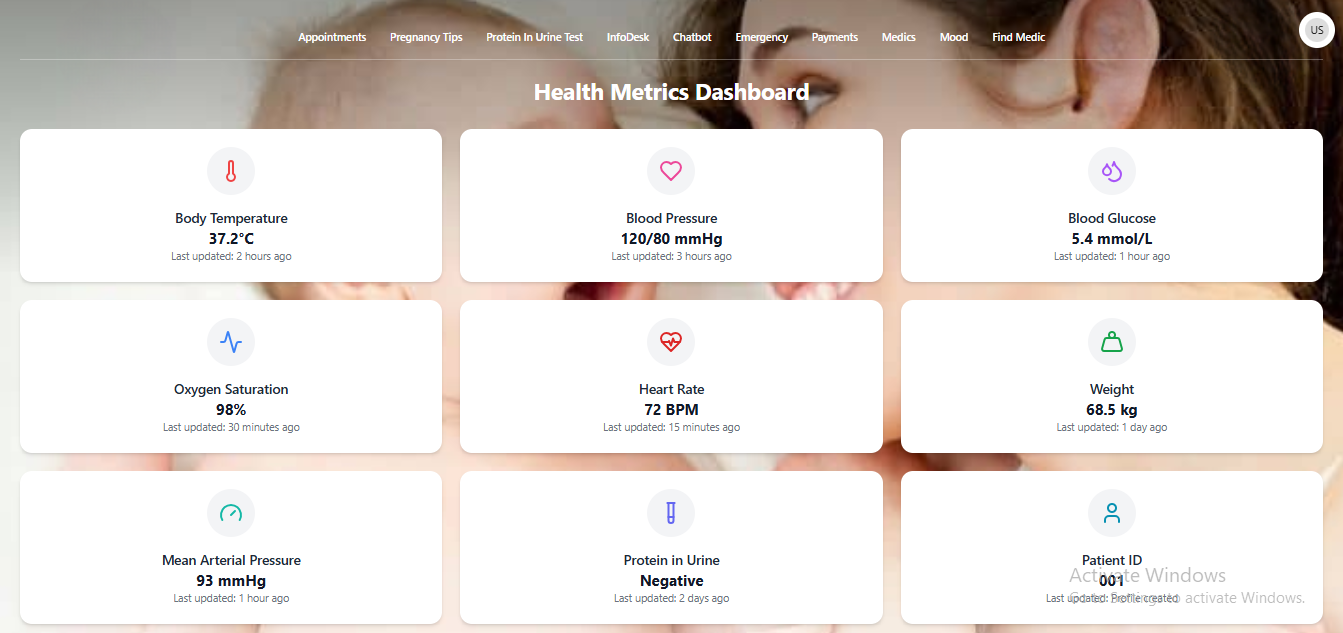
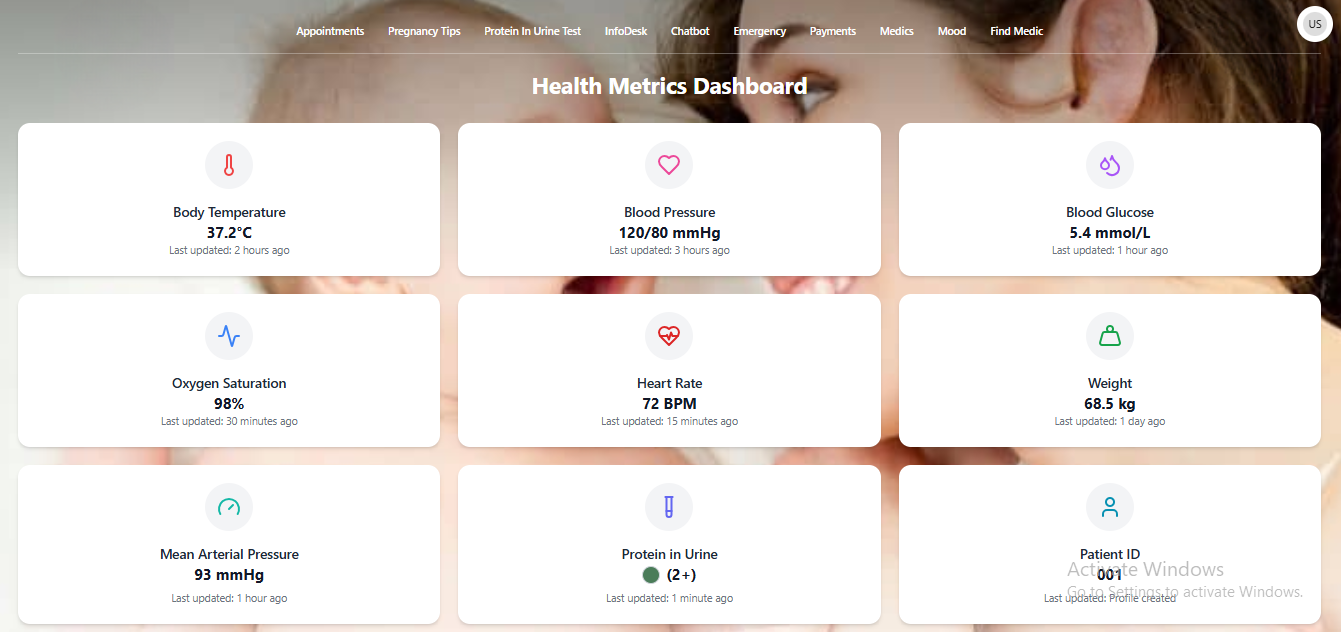
backend connect

diff --git a/src/components/health_metrics.jsx b/src/components/health_metrics.jsx
@@ -1,4 +1,4 @@
-import React, { useState } from 'react';
+import React, { useState, useEffect } from 'react';
 import pregnancyImg from '../assets/pregnancy.png';
 import axios from 'axios';
 import { useNavigate, useLocation } from 'react-router-dom';
@@ -27,16 +27,23 @@ import {
 
 // Helper function to format time elapsed
 const formatTimeElapsed = (date) => {
-  const now = new Date();
-  const diff = now - date;
-  const minutes = Math.floor(diff / (1000 * 60));
-  const hours = Math.floor(diff / (1000 * 60 * 60));
-  const days = Math.floor(diff / (1000 * 60 * 60 * 24));
+  if (!date) return 'Never';
+  
+  try {
+    const now = new Date();
+    const dateObj = new Date(date);
+    const diff = now - dateObj;
+    const minutes = Math.floor(diff / (1000 * 60));
+    const hours = Math.floor(diff / (1000 * 60 * 60));
+    const days = Math.floor(diff / (1000 * 60 * 60 * 24));
 
-  if (minutes < 1) return 'Just now';
-  if (minutes < 60) return `${minutes} minute${minutes > 1 ? 's' : ''} ago`;
-  if (hours < 24) return `${hours} hour${hours > 1 ? 's' : ''} ago`;
-  return `${days} day${days > 1 ? 's' : ''} ago`;
+    if (minutes < 1) return 'Just now';
+    if (minutes < 60) return `${minutes} minute${minutes > 1 ? 's' : ''} ago`;
+    if (hours < 24) return `${hours} hour${hours > 1 ? 's' : ''} ago`;
+    return `${days} day${days > 1 ? 's' : ''} ago`;
+  } catch (e) {
+    return 'Never';
+  }
 };
 
 export default function HealthDashboard() {
@@ -45,12 +52,27 @@ export default function HealthDashboard() {
   const [dialogOpen, setDialogOpen] = useState(false);
   const [weightModalOpen, setWeightModalOpen] = useState(false);
   const [newWeight, setNewWeight] = useState('');
-  const [weightLastUpdated, setWeightLastUpdated] = useState(new Date(Date.now() - 24 * 60 * 60 * 1000)); // 1 day ago initially
+  const [weightLastUpdated, setWeightLastUpdated] = useState(new Date(Date.now() - 24 * 60 * 60 * 1000));
   const [currentWeight, setCurrentWeight] = useState(68.5);
   const [activeNavItem, setActiveNavItem] = useState(null);
+  const [proteinData, setProteinData] = useState(null);
   
-  // Get userEmail from location state
+  // Get userEmail from location state or default
   const userEmail = location.state?.userEmail || 'User';
+
+  useEffect(() => {
+    // Check for protein data in location state (just came from urine test)
+    if (location.state?.proteinData) {
+      setProteinData(location.state.proteinData);
+      localStorage.setItem('proteinTestResult', JSON.stringify(location.state.proteinData));
+    } else {
+      // Try to load from localStorage
+      const savedProteinData = localStorage.getItem('proteinTestResult');
+      if (savedProteinData) {
+        setProteinData(JSON.parse(savedProteinData));
+      }
+    }
+  }, [location.state]);
 
   const metricData = [
     {
@@ -101,9 +123,10 @@ export default function HealthDashboard() {
     },
     {
       title: 'Protein in Urine',
-      value: 'Negative',
+      value: proteinData?.level || 'Not tested',
       icon: <TestTube size={32} className="text-indigo-500" />,
-      lastUpdated: '2 days ago',
+      lastUpdated: proteinData ? formatTimeElapsed(proteinData.lastUpdated) : 'Never',
+      color: proteinData?.color
     },
     {
       title: 'Patient ID',
@@ -116,7 +139,6 @@ export default function HealthDashboard() {
   const navItems = [
     { name: 'Appointments', path: '/medic-appointment', short: 'Appts' },
     { name: 'Pregnancy Tips', path: '/wellness-tips', short: 'Tips' },
-    // { name: 'Live Vitals', path: '/hardware-vitals', short: 'Vitals' },
     { name: 'Protein In Urine Test', path: '/urine-strip', short: 'Protein' },
     { name: 'InfoDesk', path: '/pregnancy-health', short: 'Info' },
     { name: 'Chatbot', path: '/pregnancy-chatbot', short: 'Chat' },
@@ -271,7 +293,17 @@ export default function HealthDashboard() {
               {metric.icon}
             </div>
             <h2 className="text-base md:text-lg font-semibold text-gray-800">{metric.title}</h2>
-            <p className="text-lg md:text-xl font-bold text-gray-900">{metric.value}</p>
+            {metric.color ? (
+              <div className="flex items-center justify-center gap-2 mb-2">
+                <div 
+                  className="w-6 h-6 rounded-full border border-gray-300" 
+                  style={{ backgroundColor: metric.color }}
+                />
+                <p className="text-lg md:text-xl font-bold text-gray-900">{metric.value}</p>
+              </div>
+            ) : (
+              <p className="text-lg md:text-xl font-bold text-gray-900 mb-2">{metric.value}</p>
+            )}
             <p className="text-xs md:text-sm text-gray-500">Last updated: {metric.lastUpdated}</p>
           </motion.div>
         ))}
@@ -415,4 +447,4 @@ export default function HealthDashboard() {
       </Dialog>
     </div>
   );
-}
+};

diff --git a/src/components/protein-strip.jsx b/src/components/protein-strip.jsx
@@ -1,6 +1,11 @@
 import React, { useState } from 'react';
+import { useNavigate, useLocation } from 'react-router-dom';
 
 const UrineStripColorSelector = () => {
+  const navigate = useNavigate();
+  const location = useLocation();
+  const userEmail = location.state?.userEmail || 'User';
+  
   const colors = [
     '#F0F8B8', // Pale yellow/greenish - Negative
     '#C8E6A0', // Light green - Trace
@@ -14,6 +19,30 @@ const UrineStripColorSelector = () => {
   const concentrations = ['0 mg/dL', '~15 mg/dL', '~30 mg/dL', '~100 mg/dL', '~300 mg/dL', '≥2000 mg/dL'];
   const [selectedIndex, setSelectedIndex] = useState(null);
   const [showVideoModal, setShowVideoModal] = useState(false);
+
+  const handleColorSelect = (index) => {
+    setSelectedIndex(index);
+  };
+
+  const handleSaveAndReturn = () => {
+    if (selectedIndex !== null) {
+      const proteinData = {
+        level: proteinLevels[selectedIndex],
+        concentration: concentrations[selectedIndex],
+        lastUpdated: new Date().toISOString(),
+        color: colors[selectedIndex]
+      };
+      
+      localStorage.setItem('proteinTestResult', JSON.stringify(proteinData));
+      
+      navigate('/health-dashboard', { 
+        state: { 
+          userEmail,
+          proteinData 
+        } 
+      });
+    }
+  };
 
   return (
     <div 
@@ -39,7 +68,7 @@ const UrineStripColorSelector = () => {
             {colors.slice(0, 3).map((color, index) => (
               <div
                 key={index}
-                onClick={() => setSelectedIndex(index)}
+                onClick={() => handleColorSelect(index)}
                 className={`p-1 rounded-full cursor-pointer transition-all duration-300 transform hover:scale-110 active:scale-95 ${
                   selectedIndex === index ? 'ring-4 ring-blue-500 shadow-lg' : 'hover:shadow-md'
                 }`}
@@ -57,7 +86,7 @@ const UrineStripColorSelector = () => {
             {colors.slice(3, 6).map((color, index) => (
               <div
                 key={index + 3}
-                onClick={() => setSelectedIndex(index + 3)}
+                onClick={() => handleColorSelect(index + 3)}
                 className={`p-1 rounded-full cursor-pointer transition-all duration-300 transform hover:scale-110 active:scale-95 ${
                   selectedIndex === index + 3 ? 'ring-4 ring-blue-500 shadow-lg' : 'hover:shadow-md'
                 }`}
@@ -85,6 +114,13 @@ const UrineStripColorSelector = () => {
                   Concentration: {concentrations[selectedIndex]}
                 </p>
               </div>
+              
+              <button
+                onClick={handleSaveAndReturn}
+                className="mt-4 bg-green-600 hover:bg-green-700 text-white font-semibold py-3 px-6 rounded-lg shadow-md transition-all duration-300 transform hover:scale-105 active:scale-95 hover:shadow-lg"
+              >
+                Save and Return to Dashboard
+              </button>
             </div>
           )}
 
